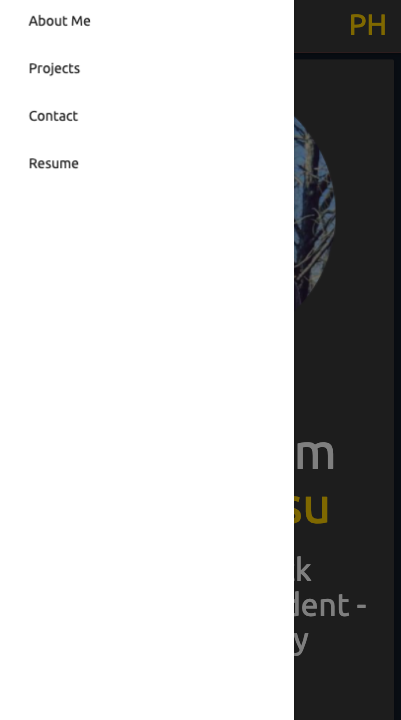
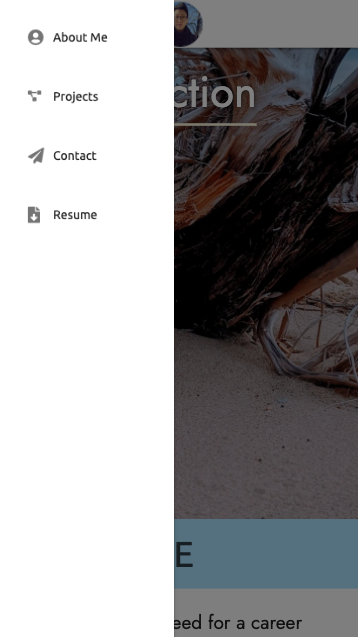
edited readme

diff --git a/assets/CSS/style.css b/assets/CSS/style.css
@@ -103,6 +103,7 @@ section#home div.container h2 {
     font-weight: 500px;
     line-height: 150%;
     padding: 0 30px;
+    margin-top: 60px; 
     text-shadow: 1px 1px 5px rgb(0 0 0 / 50%);
 }
 

diff --git a/README.md b/README.md
@@ -22,6 +22,7 @@ The following components are used to build the code for this project:
 2. **CSS**:
     - Materialize
     - Google Fonts
+    - Font Awesome
     - custom
 3. **JavaScript**:
     - Vanilla JavaScript
@@ -56,7 +57,7 @@ The following lists all functions within this project:
     * `.gitignore` file
 
 
-### Portfolio screenshot
+## Portfolio screenshot
 
 Screenshots of mobile-friendly navigation bar:
 
@@ -80,8 +81,7 @@ Please use the following link to deploy a live URL of this project:
 
 * [Materialize](https://materializecss.com/) documentation for CSS and JavaScript
 * [Google Fonts](https://fonts.google.com/)
-* [GitHub](https://github.com/logos) logo
-* [LinkedIn](https://brand.linkedin.com/downloads) logo
+* [Font Awesome](https://fontawesome.com/)
 * Full-stack Bootcamp Program @ [Washington University, Saint Louis](https://bootcamp.tlcenter.wustl.edu/) through [© 2021 Trilogy Education Services, LLC, a 2U, Inc. brand](https://www.trilogyed.com/)
 
 
